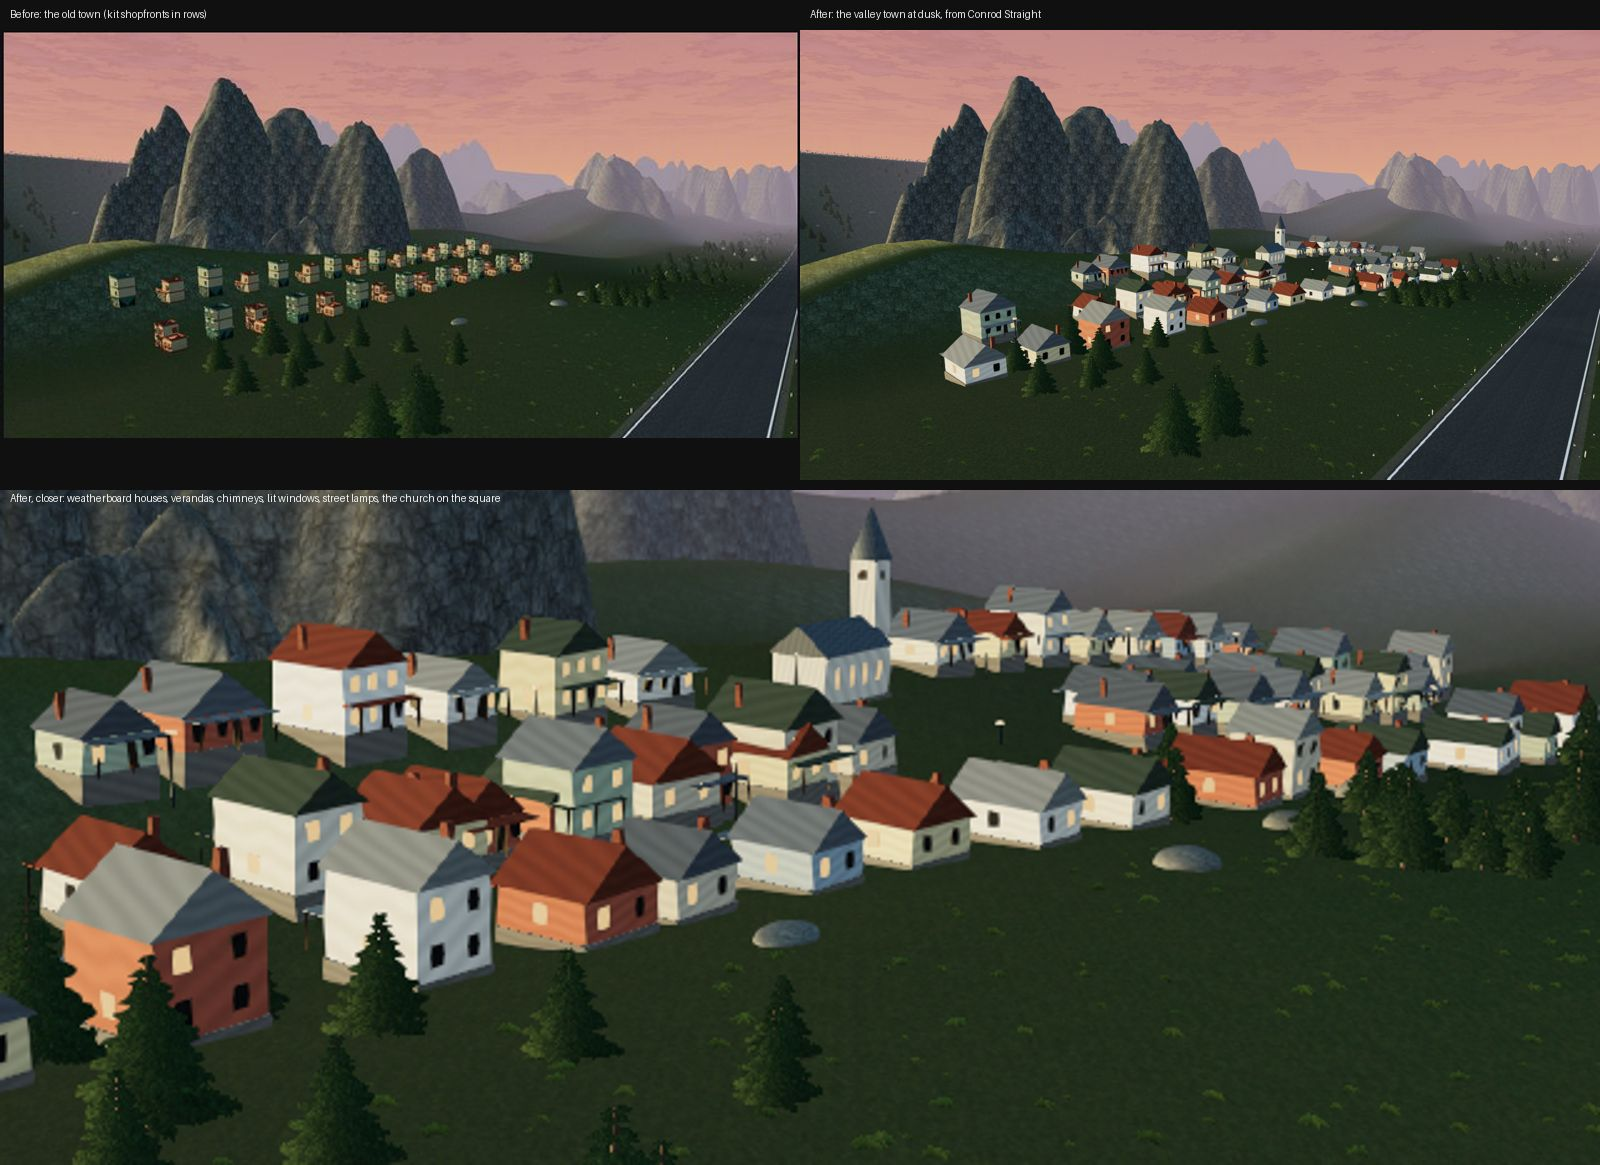
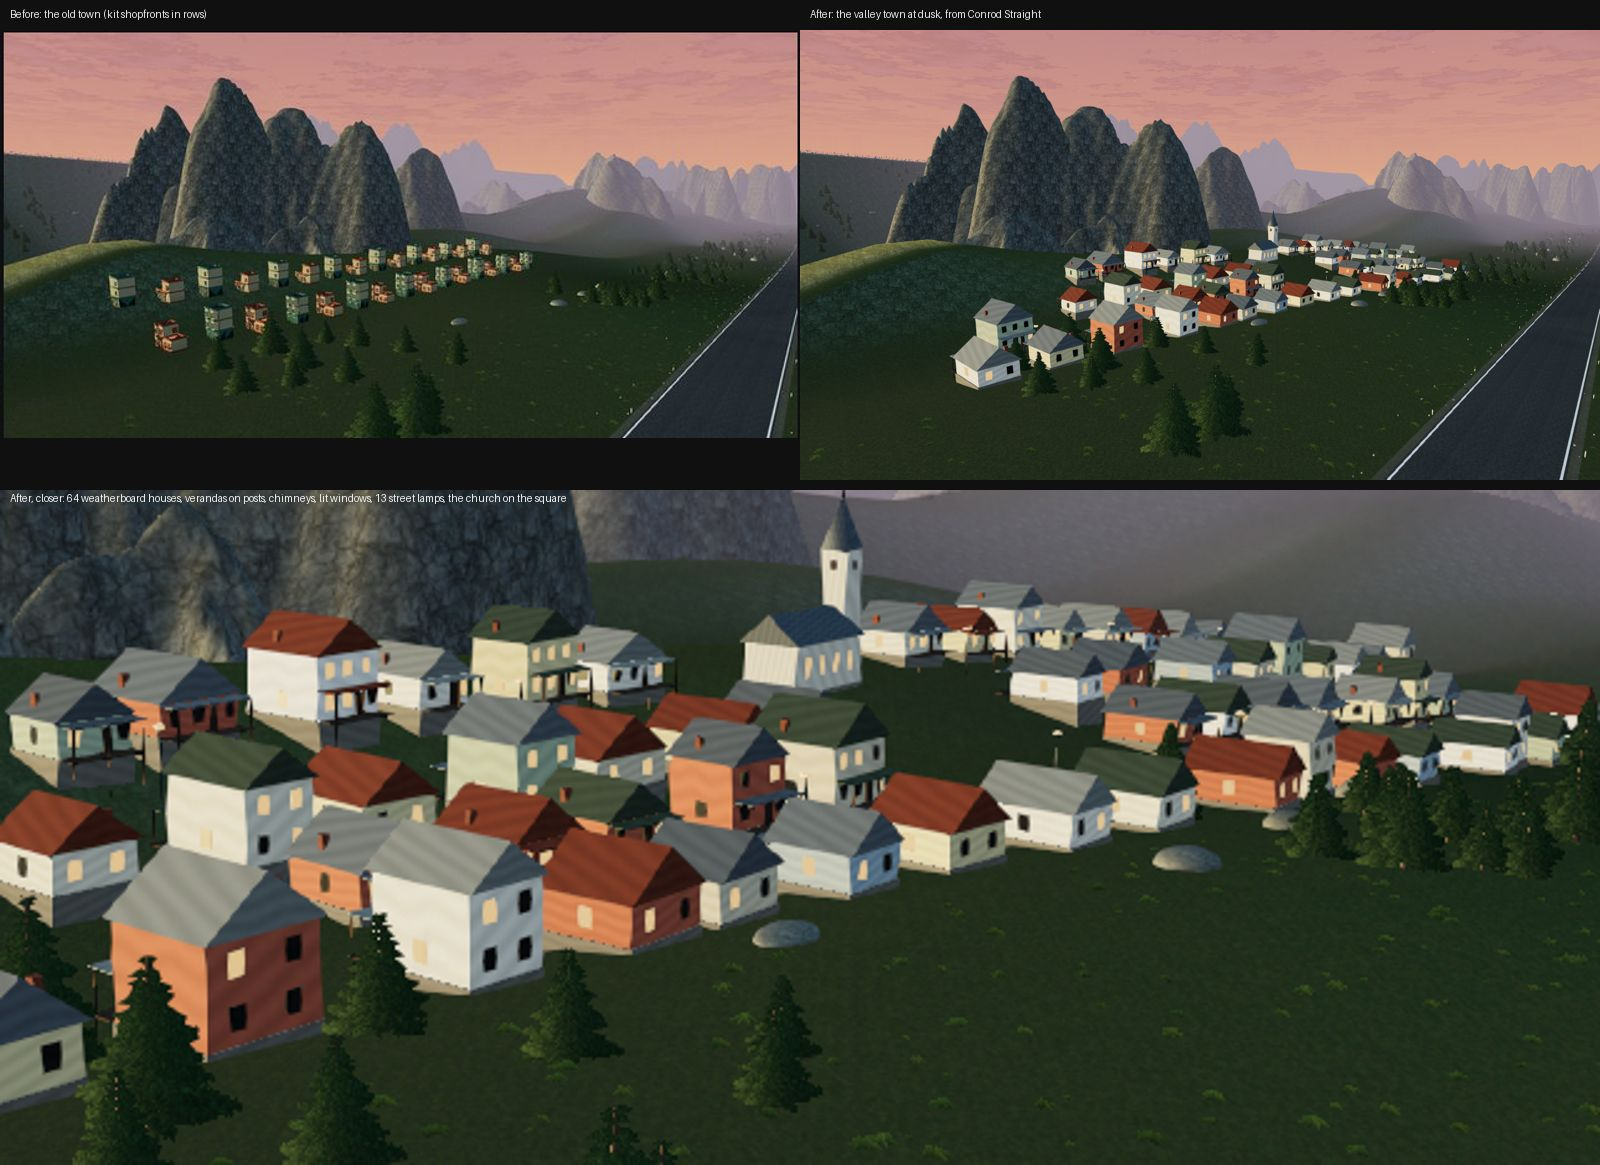
PANORAMA-TOWN: final sheet, fingerprint and counts

Changed region(s): [[0.0, 0.4326, 1.0, 0.9579], [0.5938, 0.1854, 0.9062, 0.3399], [0.0625, 0.4017, 0.3125, 0.4326]]

diff --git a/docs/board/looks/panorama-town/round-2-review.md b/docs/board/looks/panorama-town/round-2-review.md
@@ -13,8 +13,11 @@ High quality, night amount 0.55 at the dusk capture).
 - Round 2: back windows on every house, larger panes, a third front window
   on wider houses, bigger lamp heads.
 
+- Review fixes (same day): no two houses or lamps share ground, veranda
+  posts reach the ground, chimneys rise through their roofs; recaptured.
+
 Verdict (Claude): **pick.** A country town on the slope: two streets that
-bend with the ground, 64 houses (16 of two storeys) in eight wall and five
-roof colours, a weatherboard church with a steeple on the square, 14 street
+bend with the ground, 64 houses (about a quarter of two storeys) in eight wall and five
+roof colours, a weatherboard church with a steeple on the square, 13 street
 lamps, warm windows mixed with dark ones. Drawn as 11 instanced meshes plus
 the church, so the whole town costs about 33 draw calls.

diff --git a/docs/changes/PANORAMA-TOWN.md b/docs/changes/PANORAMA-TOWN.md
@@ -13,7 +13,7 @@ shopfronts. It is now a country town drawn in code:
   and throws if any part comes within 3 m of a road. `church` draws a
   weatherboard church with a steeple. Window and lamp materials carry
   "window" in their names, so the existing night lighting lights them.
-- `src/circuits/panorama-ridge.js`: `valleyTown()` lays out 60 houses and 8
+- `src/circuits/panorama-ridge.js`: `valleyTown()` lays out 64 houses and 13
   lamps on two streets that bend with the slope (fixed hash, same every
   load), with a square for the church; the 32 shopfront kit placements are
   gone. Looks only: no road, field, rule or record change.
